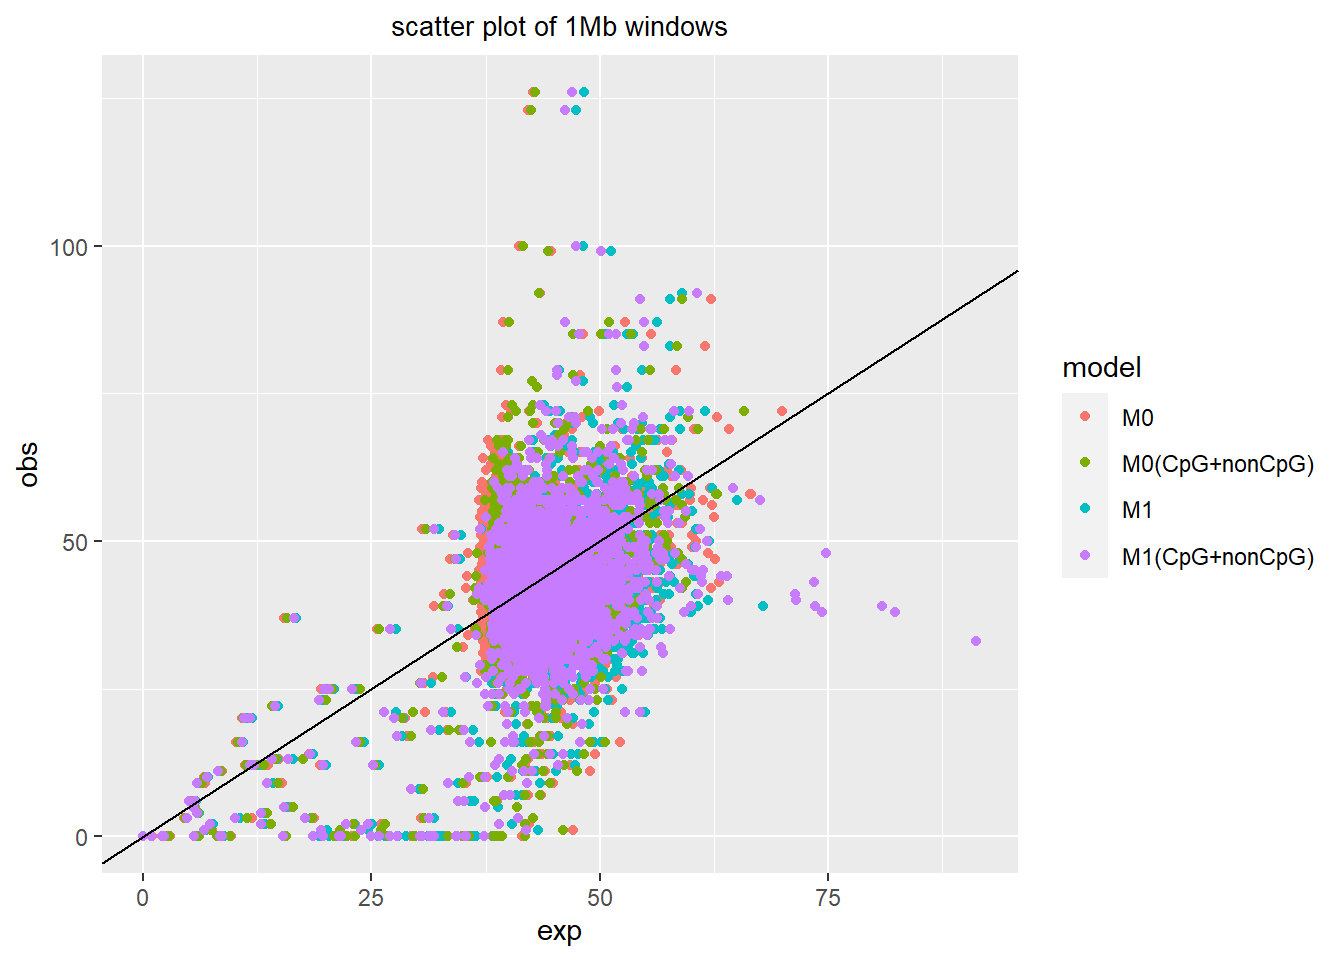
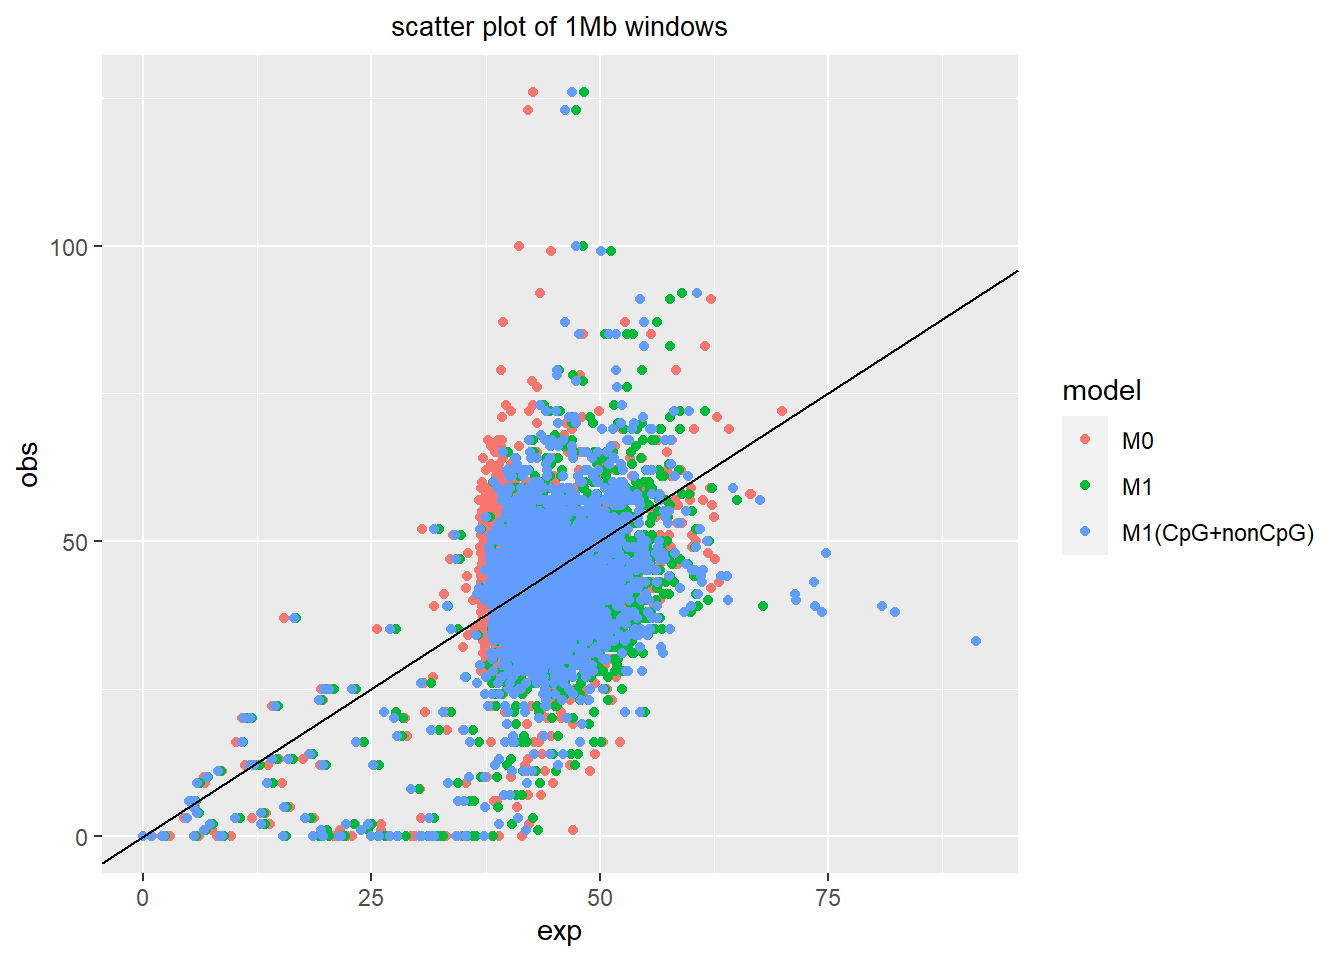
8/10/2021

diff --git a/docs/simons-control-wgs.html b/docs/simons-control-wgs.html
@@ -474,11 +474,11 @@ div.section {
 </div>
 <div id="model-evaluation" class="section level2">
 <h2>Model evaluation</h2>
-<p>We consider the following 3 models,</p>
+<p>We consider the following models,</p>
 <ul>
 <li><p>Model 0 (M0): 3-mer only for 9 mutation types. This is implemented by enforcing all parameters to be zero in M1.</p></li>
 <li><p>Model 1 (M1): 3-mer+features for pooled 9 mutation types</p></li>
-<li><p>split Model 1 (M1) into two submodels, M1(CpG):3-mer+features for pooled 3 CpG mutation types and M1(nonCpG): 3-mer+features for pooled 6 nonCpG mutation types</p></li>
+<li><p>Model M1(CpG+nonCpG): split Model 1 (M1) into two submodels, M1(CpG):3-mer+features for pooled 3 CpG mutation types and M1(nonCpG): 3-mer+features for pooled 6 nonCpG mutation types</p></li>
 <li><p>Model 2 (M2): 3-mer+features for 9 mutation types</p></li>
 </ul>
 <div id="predictive-density-measure" class="section level3">
@@ -524,10 +524,9 @@ div.section {
 <li>M1(CpG+nonCpG) has one outlier, which is removed in scatter plot</li>
 </ul>
 <p><img src="simons-control-wgs_files/figure-html/unnamed-chunk-7-1.png" width="672" /></p>
-<pre><code>## M0 has MSE of 95.95757</code></pre>
-<pre><code>## M1 has MSE of 94.71272</code></pre>
-<pre><code>## M0(CpG+nonCpG) has MSE of 91.60055</code></pre>
-<pre><code>## M1(CpG+nonCpG) has MSE of 938.6796</code></pre>
+<pre><code>## After removing one outlier, M0 has MSE of 95.987</code></pre>
+<pre><code>## After removing one outlier, M1 has MSE of 93.7917</code></pre>
+<pre><code>## After removing one outlier, M1(CpG+nonCpG) has MSE of 93.54005</code></pre>
 <p><img src="simons-control-wgs_files/figure-html/unnamed-chunk-8-1.png" width="672" /></p>
 <ul>
 <li>there is one outlier in the plot of M1</li>
